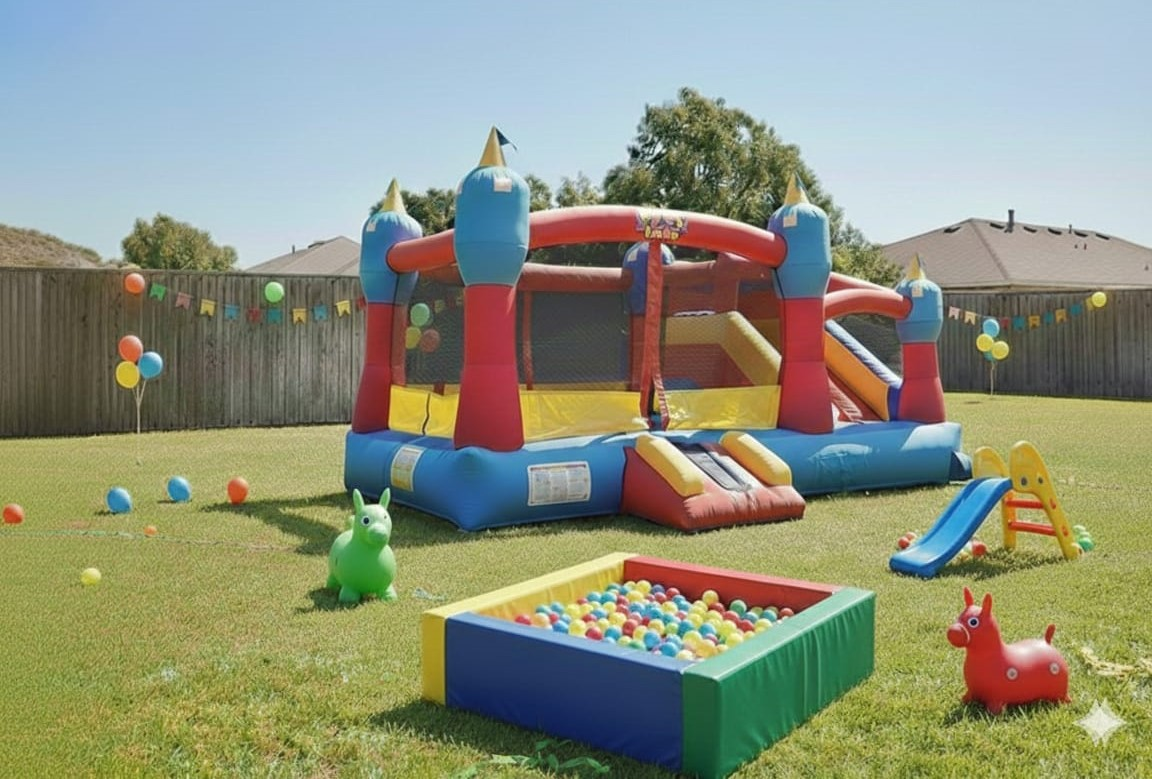
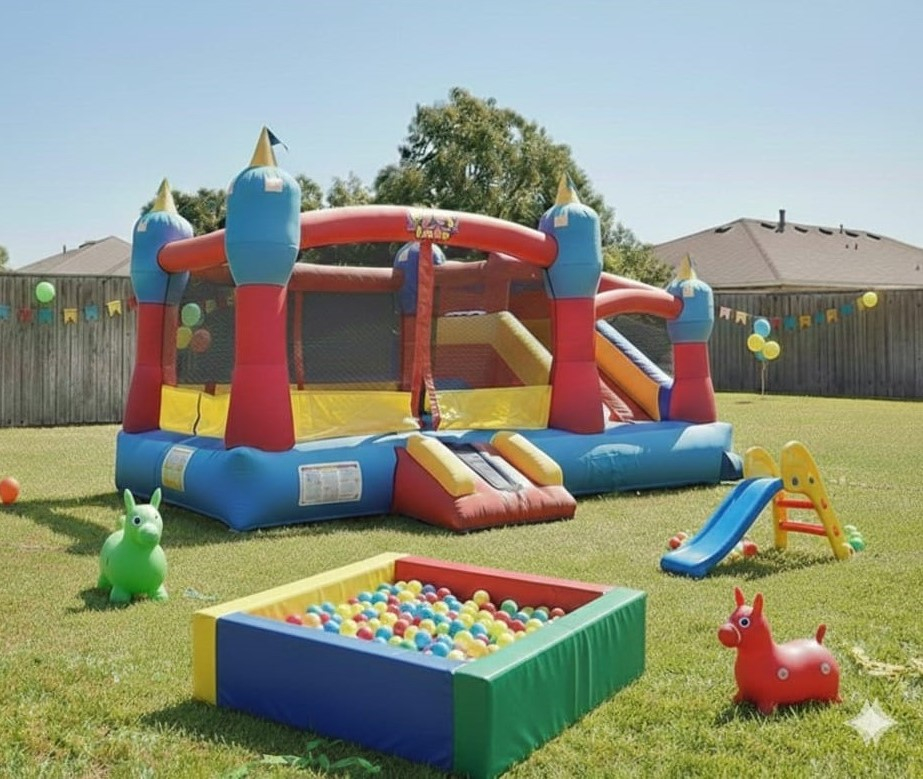
update: modificacion de imagenes

diff --git a/data/products.ts b/data/products.ts
@@ -6,27 +6,27 @@ export const products: Product[] = [
     name: "Castillo Inflable",
     price: "20.000",
     dimensions: "4.60mt Largo, x 2.20mt Ancho, x 2.19mt Alto",
-    image: "/images/inflablesf.png",
+    image: "/images/inflablesf.webp",
   },
   {
     id: 2,
     name: "Piscina de Pelotas",
     price: "20.000",
     dimensions: "1.60mt Largo x 1.60mt Ancho x 40cm Alto",
-    image: "/images/piscinasf.png",
+    image: "/images/piscinasf.webp",
   },
   {
     id: 3,
     name: "Resbalín",
     price: "5.000",
     dimensions: "104cm Largo x 36cm Ancho x 75cm Alto",
-    image: "/images/resbalinsf.png",
+    image: "/images/resbalinsf.webp",
   },
   {
     id: 4,
     name: "Pony Saltarín",
     price: "3.000 C/U",
     dimensions: "185cm Largo x 30cm Ancho x 50cm Alto",
-    image: "/images/ponysf.png",
+    image: "/images/ponysf.webp",
   },
 ];

diff --git a/data/packs.ts b/data/packs.ts
@@ -8,7 +8,7 @@ export const packs: Pack[] = [
       "Castillo Inflable + Piscina de Pelotas + Resbalín + 2 Ponys Saltarín",
     oldPrice: "51.000",
     price: "40.000",
-    image: "/images/pack 1 completo.jpeg",
+    image: "/images/pack 1 completo.webp",
   },
   {
     id: 2,
@@ -16,7 +16,7 @@ export const packs: Pack[] = [
     description: "Piscina de Pelotas + Resbalín + 2 Ponys Saltarín",
     oldPrice: "31.000",
     price: "25.000",
-    image: "/images/pack 2 piscina.png",
+    image: "/images/pack 2 piscina.webp",
   },
   {
     id: 3,
@@ -24,6 +24,6 @@ export const packs: Pack[] = [
     description: "Castillo Inflable + Resbalín + 2 Ponys Saltarín",
     oldPrice: "31.000",
     price: "25.000",
-    image: "/images/pack 3 castillo.png",
+    image: "/images/pack 3 castillo.webp",
   },
 ];

diff --git a/app/layout.tsx b/app/layout.tsx
@@ -33,7 +33,7 @@ export default function RootLayout({
       <body className="relative min-h-screen">
         <div className="fixed inset-0 -z-10 pointer-events-none">
           <Image
-            src="/images/fondoamanda.jpeg"
+            src="/images/fondoamanda.webp"
             alt="Niño con pelotas"
             fill
             priority
